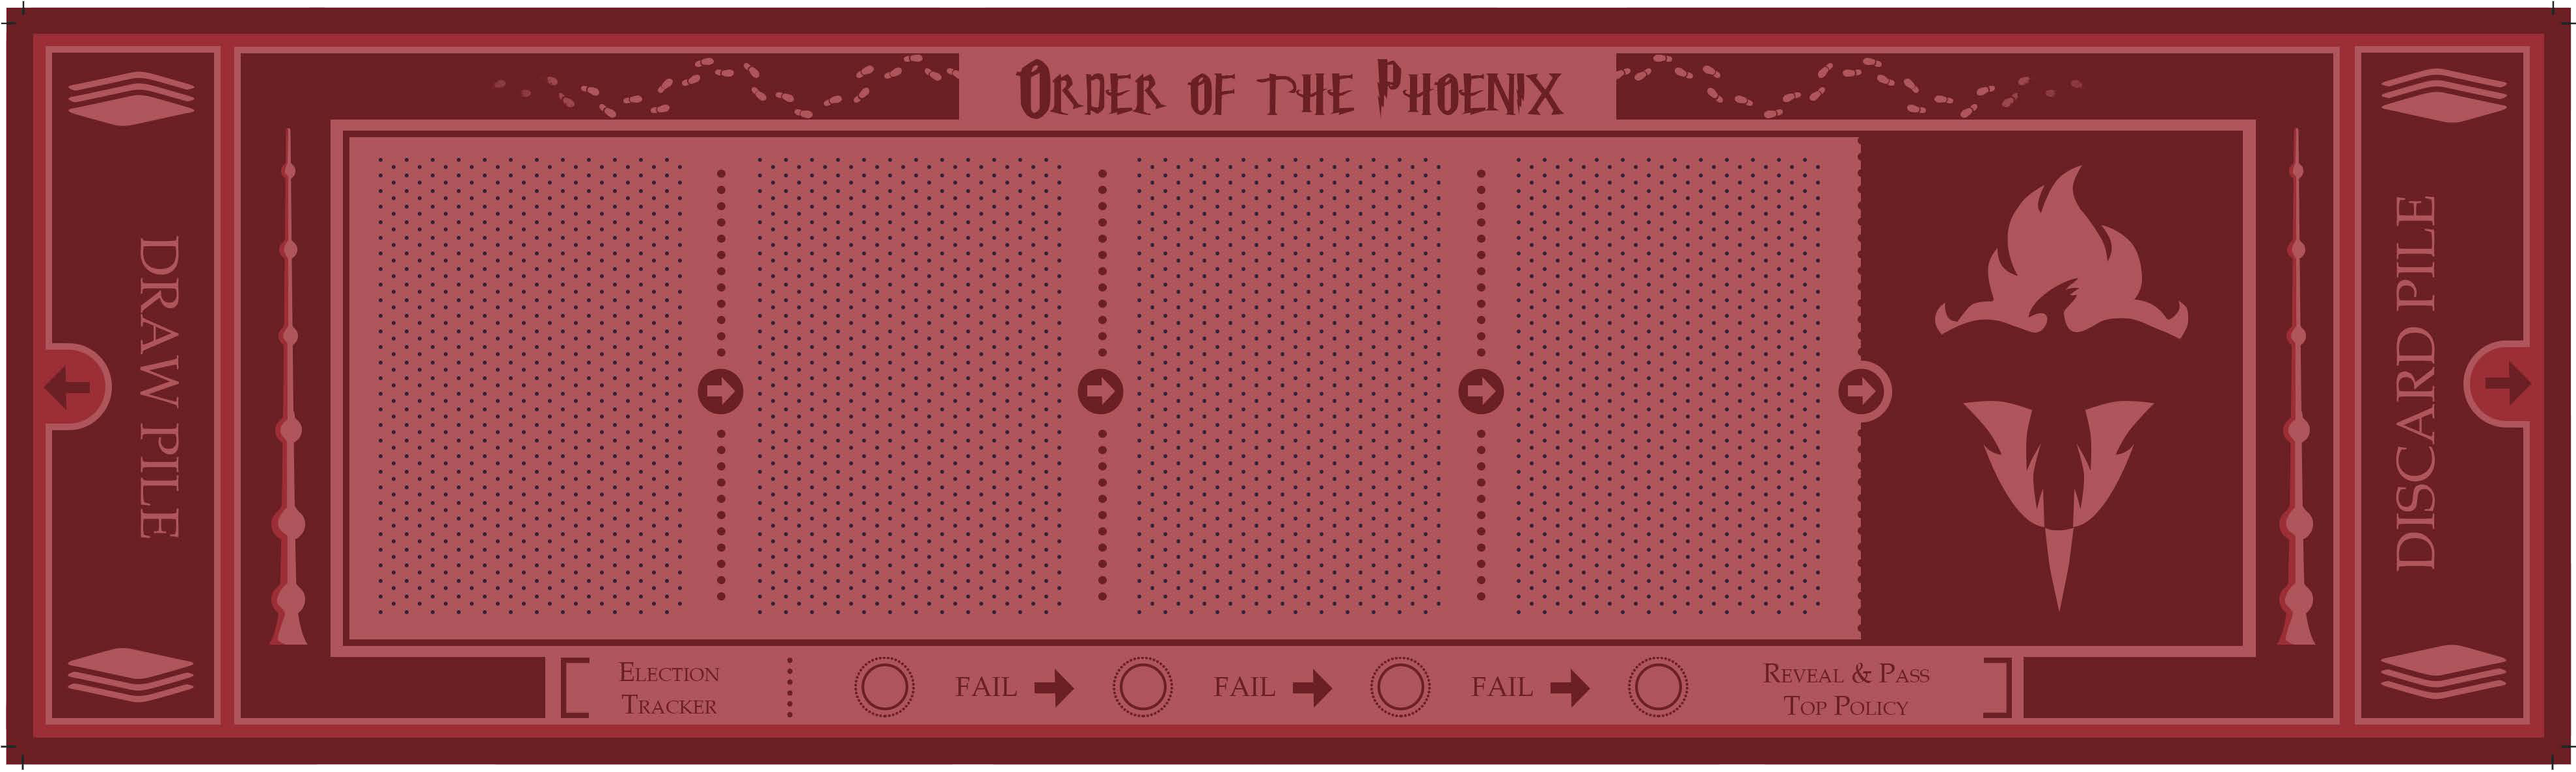
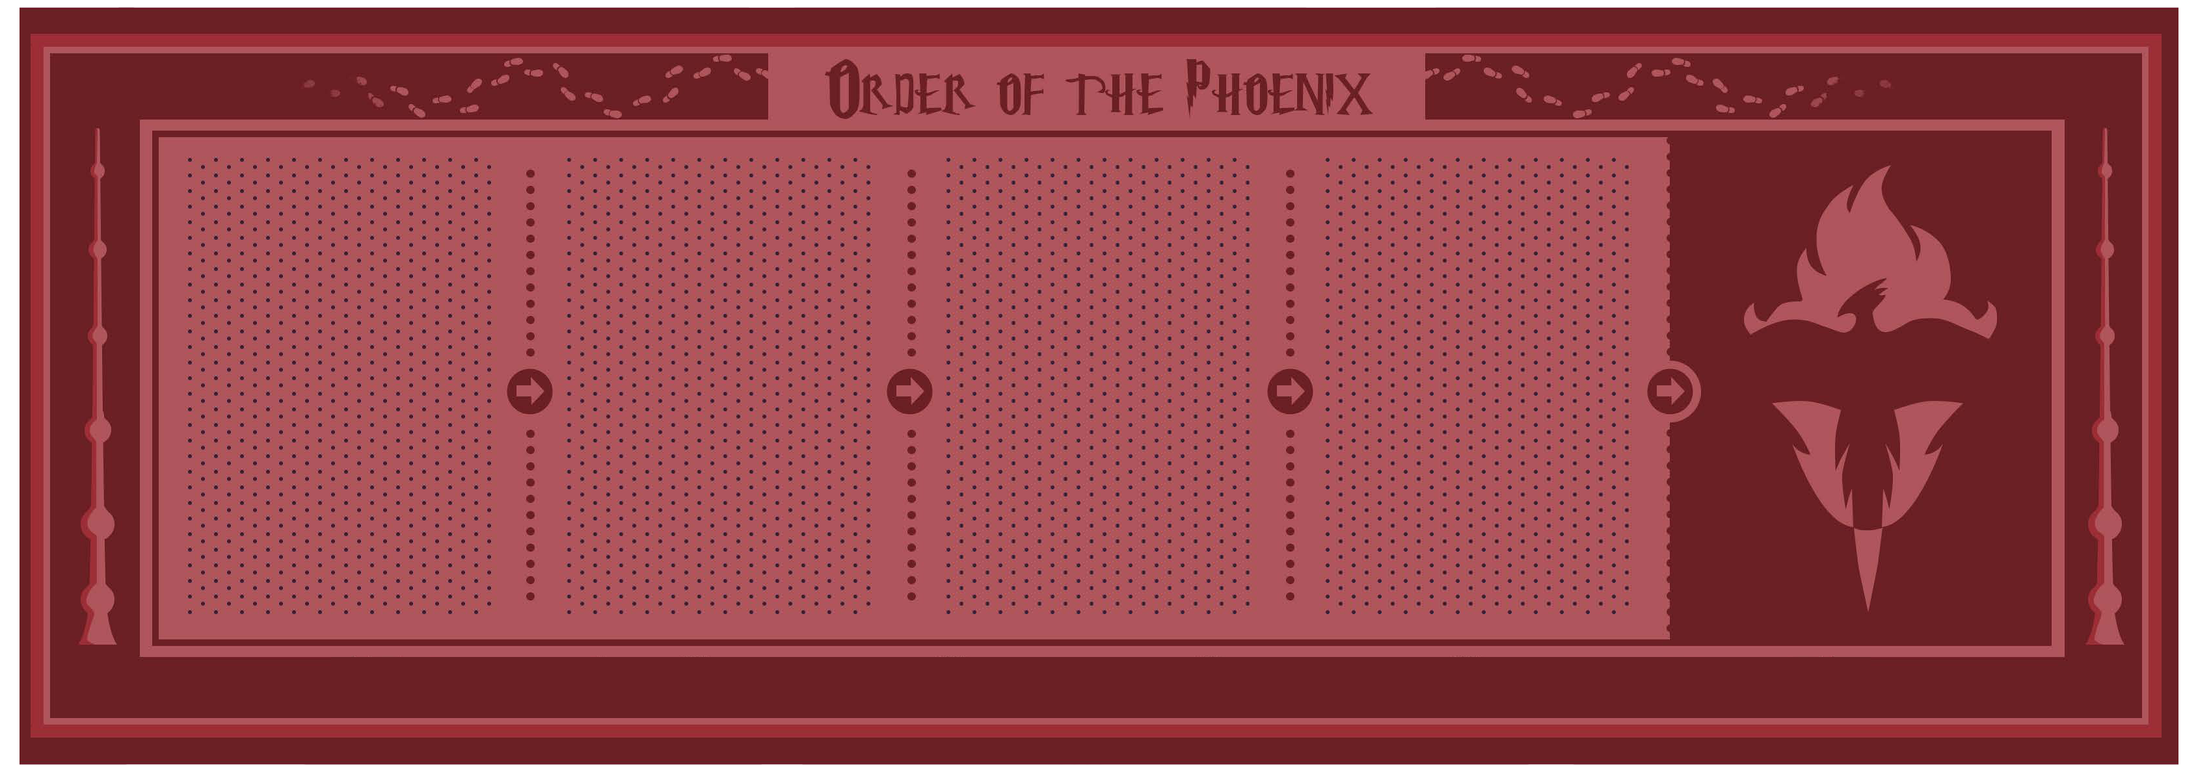
Fix imgs PO board

Changed region(s): [[0.0, 0.0, 1.0, 0.9966]]

diff --git a/Frontend/src/features/game/components/board.jsx b/Frontend/src/features/game/components/board.jsx
@@ -1,61 +1,61 @@
-import React, {useState, useEffect} from 'react';
+import React, { useState, useEffect } from 'react';
 import { makeStyles } from '@material-ui/core/styles';
 import Snackbar from '@material-ui/core/Snackbar';
 
-export default function Board( {user, gameInfo, statusGetProclamation, getProclamationsInfo, discardproclamation}) {
-    
+export default function Board({ user, gameInfo, statusGetProclamation, getProclamationsInfo, discardproclamation }) {
+
     const classes = useStyles();
-    const [ ministerName, setMinisterName ] = useState('');
-    const [ headmasterName, setHeadmasterName ] = useState('');
-    const [ numPlayers, setNumPlayers ] = useState();
-    const [ gameName, setGameName] = useState('');
-    const [ hand, setHand] = useState([]);
-    const [ numProclamations, setNumProclamations] = useState();
-    const [ POenactedProclamations, setPOenactedProclamations ] = useState();
-    const [ DEenactedProclamations, setDEenactedProclamations ] = useState();
-    const [ discardedProclamations, setDiscardedProclamations ] = useState([])
-    const [ open, setOpen ] = useState(false);
-    const [ openSnackDirector, setOpenSnackDirector ] =useState(false);
-    const [ isMinister, setIsMinister ] = useState(false);
-    const [ isHeadMaster, setIsHeadMaster] = useState(false);
-    const [ players, setPlayers ] = useState([]);
-    const [ currentPlayer, setCurrentPlayer ] = useState(null);
-    const [ isGetProclamation , setIsGetProclamation ] = useState(true);
+    const [ministerName, setMinisterName] = useState('');
+    const [headmasterName, setHeadmasterName] = useState('');
+    const [numPlayers, setNumPlayers] = useState();
+    const [gameName, setGameName] = useState('');
+    const [hand, setHand] = useState([]);
+    const [numProclamations, setNumProclamations] = useState();
+    const [POenactedProclamations, setPOenactedProclamations] = useState();
+    const [DEenactedProclamations, setDEenactedProclamations] = useState();
+    const [discardedProclamations, setDiscardedProclamations] = useState([])
+    const [open, setOpen] = useState(false);
+    const [openSnackDirector, setOpenSnackDirector] = useState(false);
+    const [isMinister, setIsMinister] = useState(false);
+    const [isHeadMaster, setIsHeadMaster] = useState(false);
+    const [players, setPlayers] = useState([]);
+    const [currentPlayer, setCurrentPlayer] = useState(null);
+    const [isGetProclamation, setIsGetProclamation] = useState(true);
 
 
     useEffect(() => {
-        if (gameInfo.length !== 0){
+        if (gameInfo.length !== 0) {
             setMinisterName(gameInfo.elections.minister);
             setHeadmasterName(gameInfo.elections.headmaster)
             setGameName(gameInfo.name);
             setNumPlayers(gameInfo.num_players);
         }
-    }, [gameInfo,setMinisterName])
+    }, [gameInfo, setMinisterName])
 
     useEffect(() => {
-        if(gameInfo.length !== 0 ){
+        if (gameInfo.length !== 0) {
             setHand(gameInfo.proclamations.hand);
         }
     }, [gameInfo.proclamations?.hand])
 
     useEffect(() => {
-        if ( statusGetProclamation ){
+        if (statusGetProclamation) {
             setNumProclamations(Object((gameInfo.proclamations)?.deck).length);
         }
         setDiscardedProclamations(Object((gameInfo.proclamations)?.discarded).length)
-    }, )
+    })
 
-     useEffect(() => {
-        if (gameInfo.length !== 0 ){
+    useEffect(() => {
+        if (gameInfo.length !== 0) {
             setPOenactedProclamations(gameInfo.proclamations.PO_enacted_proclamations);
             setDEenactedProclamations(gameInfo.proclamations.DE_enacted_proclamations);
         }
     }, [gameInfo])
 
-//--------------------------------------------
+    //--------------------------------------------
 
     useEffect(() => {
-        if (gameInfo.length !==0 ) {
+        if (gameInfo.length !== 0) {
             setPlayers(Object.values(gameInfo.players));
         }
     }, [gameInfo, setPlayers])
@@ -67,30 +67,30 @@ export default function Board( {user, gameInfo, statusGetProclamation, getProcla
     }, [user, players])
 
     useEffect(() => {
-        if(currentPlayer && gameInfo.length !==0){
-            if( gameInfo.elections.minister === currentPlayer.name ){
+        if (currentPlayer && gameInfo.length !== 0) {
+            if (gameInfo.elections.minister === currentPlayer.name) {
                 setIsMinister(true);
             }
-            if( gameInfo.elections.headmaster === currentPlayer.name) {
+            if (gameInfo.elections.headmaster === currentPlayer.name) {
                 setIsHeadMaster(true);
             }
         }
-    },[gameInfo.elections, currentPlayer, setIsMinister, setIsHeadMaster])
+    }, [gameInfo.elections, currentPlayer, setIsMinister, setIsHeadMaster])
 
-    function ShowSquare(enactedproclamations, loyalty){
+    function ShowSquare(enactedproclamations, loyalty) {
 
         const poArrayAux = new Array(5)
         const deArrayAux = new Array(6)
         let result;
 
-        if ( loyalty === "PHOENIX_ORDER") {
-            poArrayAux.fill("PHOENIX_ORDER", 0,enactedproclamations);
+        if (loyalty === "PHOENIX_ORDER") {
+            poArrayAux.fill("PHOENIX_ORDER", 0, enactedproclamations);
             result = poArrayAux.map((proclamation) => (
                 assignImgProclamation(proclamation)
             ))
-        } 
-        else if ( loyalty === "DEATH_EATERS") {
-            deArrayAux.fill("DEATH_EATERS", 0,enactedproclamations);
+        }
+        else if (loyalty === "DEATH_EATERS") {
+            deArrayAux.fill("DEATH_EATERS", 0, enactedproclamations);
             result = deArrayAux.map((proclamation) => (
                 assignImgProclamation(proclamation)
             ))
@@ -102,74 +102,74 @@ export default function Board( {user, gameInfo, statusGetProclamation, getProcla
 
         if (proclamations === "PHOENIX_ORDER") {
             return (
-                <img src={require('../../../constants/images/ProclamationOP.png')} alt= "Proclamation Phoenix Order" style={{width: "150px", height: "190px"}}></img>)
-        } else if (proclamations === "DEATH_EATERS" ){
+                <img src={require('../../../constants/images/ProclamationOP.png')} alt="Proclamation Phoenix Order" style={{ width: "150px", height: "190px" }}></img>)
+        } else if (proclamations === "DEATH_EATERS") {
             return (
-                <img src={require('../../../constants/images/ProclamationDE.png')} alt= "Proclamation Death Eater" style={{width: "150px", height: "190px"}}></img>)
+                <img src={require('../../../constants/images/ProclamationDE.png')} alt="Proclamation Death Eater" style={{ width: "150px", height: "190px" }}></img>)
         } else {
             return null;
         }
     }
 
     const Deck = (proclamations, numProclamationsInDeck,) => {
-        
+
         useEffect(() => {
-            if ( hand.length === 2 ) {
+            if (hand.length === 2) {
                 setOpenSnackDirector(true)
             }
-        }, )
+        })
 
         useEffect(() => {
             if (hand.length === 3) {
                 setOpen(true)
             }
-        },)
+        })
 
         const handleClick = () => {
-            if(currentPlayer && gameInfo.length !==0 ){
+            if (currentPlayer && gameInfo.length !== 0) {
                 if (gameInfo.elections.minister === currentPlayer.name && statusGetProclamation !== 'success' && isGetProclamation) {
-                    getProclamationsInfo(ministerName,gameName)
+                    getProclamationsInfo(ministerName, gameName)
                     setIsGetProclamation(false)
                 }
             }
         };
-    
+
         const handleClose = (value) => {
             setOpen(false)
-            discardproclamation(value,ministerName,gameName)
+            discardproclamation(value, ministerName, gameName)
         };
 
         const handleCloseHeadMaster = (value) => {
             setOpenSnackDirector(false)
-            discardproclamation(value,headmasterName,gameName)
+            discardproclamation(value, headmasterName, gameName)
         }
 
         return (
             <div>
                 <button style={{ cursor: 'pointer' }} onClick={handleClick}>
                     Proclamations: {numProclamationsInDeck}
-                <img src= {require('../../../constants/images/Proclamation.png')} alt= "Proclamation" style={{width: "150px", height: "190px"}}></img>
+                    <img src={require('../../../constants/images/Proclamation.png')} alt="Proclamation" style={{ width: "150px", height: "190px" }}></img>
                 </button>
                 {isMinister && hand.length === 3 &&
-                <Snackbar open={open} display= 'flex'>
-                    <div>
-                        {proclamations.map((threeproclamations) => (
-                        <button onClick={ () => handleClose(threeproclamations)}>
-                        {assignImgProclamation(threeproclamations)}
-                        </button>
-                        ))}
-                    </div>
-                </Snackbar>}
+                    <Snackbar open={open} display='flex'>
+                        <div>
+                            {proclamations.map((threeproclamations) => (
+                                <button onClick={() => handleClose(threeproclamations)}>
+                                    {assignImgProclamation(threeproclamations)}
+                                </button>
+                            ))}
+                        </div>
+                    </Snackbar>}
                 {isHeadMaster && hand.length === 2 &&
-                <Snackbar open={openSnackDirector} display= 'flex'>
-                    <div>
-                        {proclamations.map((threeproclamations) => (
-                        <button onClick={ () => handleCloseHeadMaster(threeproclamations)}>
-                        {assignImgProclamation(threeproclamations)}
-                        </button>
-                        ))}
-                    </div>
-                </Snackbar>}
+                    <Snackbar open={openSnackDirector} display='flex'>
+                        <div>
+                            {proclamations.map((threeproclamations) => (
+                                <button onClick={() => handleCloseHeadMaster(threeproclamations)}>
+                                    {assignImgProclamation(threeproclamations)}
+                                </button>
+                            ))}
+                        </div>
+                    </Snackbar>}
             </div>
         );
     }
@@ -179,16 +179,16 @@ export default function Board( {user, gameInfo, statusGetProclamation, getProcla
         return (
             <div>
                 Discarded: {numDiscardProclamations}
-                <img src= {require('../../../constants/images/Discard.png')} alt= "Proclamacion" style={{width: "150px", height: "190px"}}></img>
+                <img src={require('../../../constants/images/Discard.png')} alt="Proclamacion" style={{ width: "150px", height: "190px" }}></img>
             </div>
         );
     }
 
-    const imgdeathEatersBoard = ( numplayers ) => {
+    const imgdeathEatersBoard = (numplayers) => {
         let imgBoardDE
         switch (numplayers) {
             case 5:
-            case 6: 
+            case 6:
                 imgBoardDE = require('../../../constants/images/TableroDE1.png');
                 break;
             case 7:
@@ -207,23 +207,23 @@ export default function Board( {user, gameInfo, statusGetProclamation, getProcla
     }
 
     return (
-        <div className={classes.root}> 
-            <div focusRipple  className={classes.image} focusVisibleClassName={classes.focusVisible} style={{width: '70%', justifyContent:'space-between'}} disable>
-                <div className ={classes.imageSrc} style={{ backgroundImage: `url(${imgdeathEatersBoard(numPlayers)})`,}} />
+        <div className={classes.root}>
+            <div focusRipple className={classes.image} focusVisibleClassName={classes.focusVisible} style={{ width: '70%', justifyContent: 'space-between' }} disable>
+                <div className={classes.imageSrc} style={{ backgroundImage: `url(${imgdeathEatersBoard(numPlayers)})`, }} />
                 <div className={classes.imageBackdrop}>
                     {ShowSquare(DEenactedProclamations, "DEATH_EATERS")}
                 </div>
             </div>
-            <div display= 'flex' style= {{width: 'min-content'}}>
-                {Deck(hand,numProclamations)}
+            <div display='flex' style={{ width: 'min-content' }}>
+                {Deck(hand, numProclamations)}
             </div>
-                <div focusRipple  className={classes.image} focusVisibleClassName={classes.focusVisible} style={{width: '70%',}} disable>
-                    <div className ={classes.imageSrc} style={{ backgroundImage: `url(${require('../../../constants/images/TableroPO1.png')})`,}}/>
-                    <div className={classes.imageBackdrop}>
-                        {ShowSquare(POenactedProclamations, "PHOENIX_ORDER")}
+            <div focusRipple className={classes.image} focusVisibleClassName={classes.focusVisible} style={{ width: '70%', }} disable>
+                <div className={classes.imageSrc} style={{ backgroundImage: `url(${require('../../../constants/images/TableroPO.png')})`, }} />
+                <div className={classes.imageBackdrop}>
+                    {ShowSquare(POenactedProclamations, "PHOENIX_ORDER")}
                 </div>
             </div>
-            <div display= 'flex' style= {{width: 'min-content'}}>
+            <div display='flex' style={{ width: 'min-content' }}>
                 {discardDeck(discardedProclamations)}
             </div>
         </div>
@@ -242,20 +242,20 @@ const useStyles = makeStyles((theme) => ({
         position: 'relative',
         height: 200,
         [theme.breakpoints.down('xs')]: {
-        width: '100% !important', // Overrides inline-style
-        height: 100,
+            width: '100% !important', // Overrides inline-style
+            height: 100,
         },
         '&:hover, &$focusVisible': {
-        zIndex: 1,
-        '& $imageBackdrop': {
-            opacity: 0.15,
-        },
-        '& $imageMarked': {
-            opacity: 0,
-        },
-        '& $imageTitle': {
-            border: '4px solid currentColor',
-        },
+            zIndex: 1,
+            '& $imageBackdrop': {
+                opacity: 0.15,
+            },
+            '& $imageMarked': {
+                opacity: 0,
+            },
+            '& $imageTitle': {
+                border: '4px solid currentColor',
+            },
         },
     },
     focusVisible: {},
